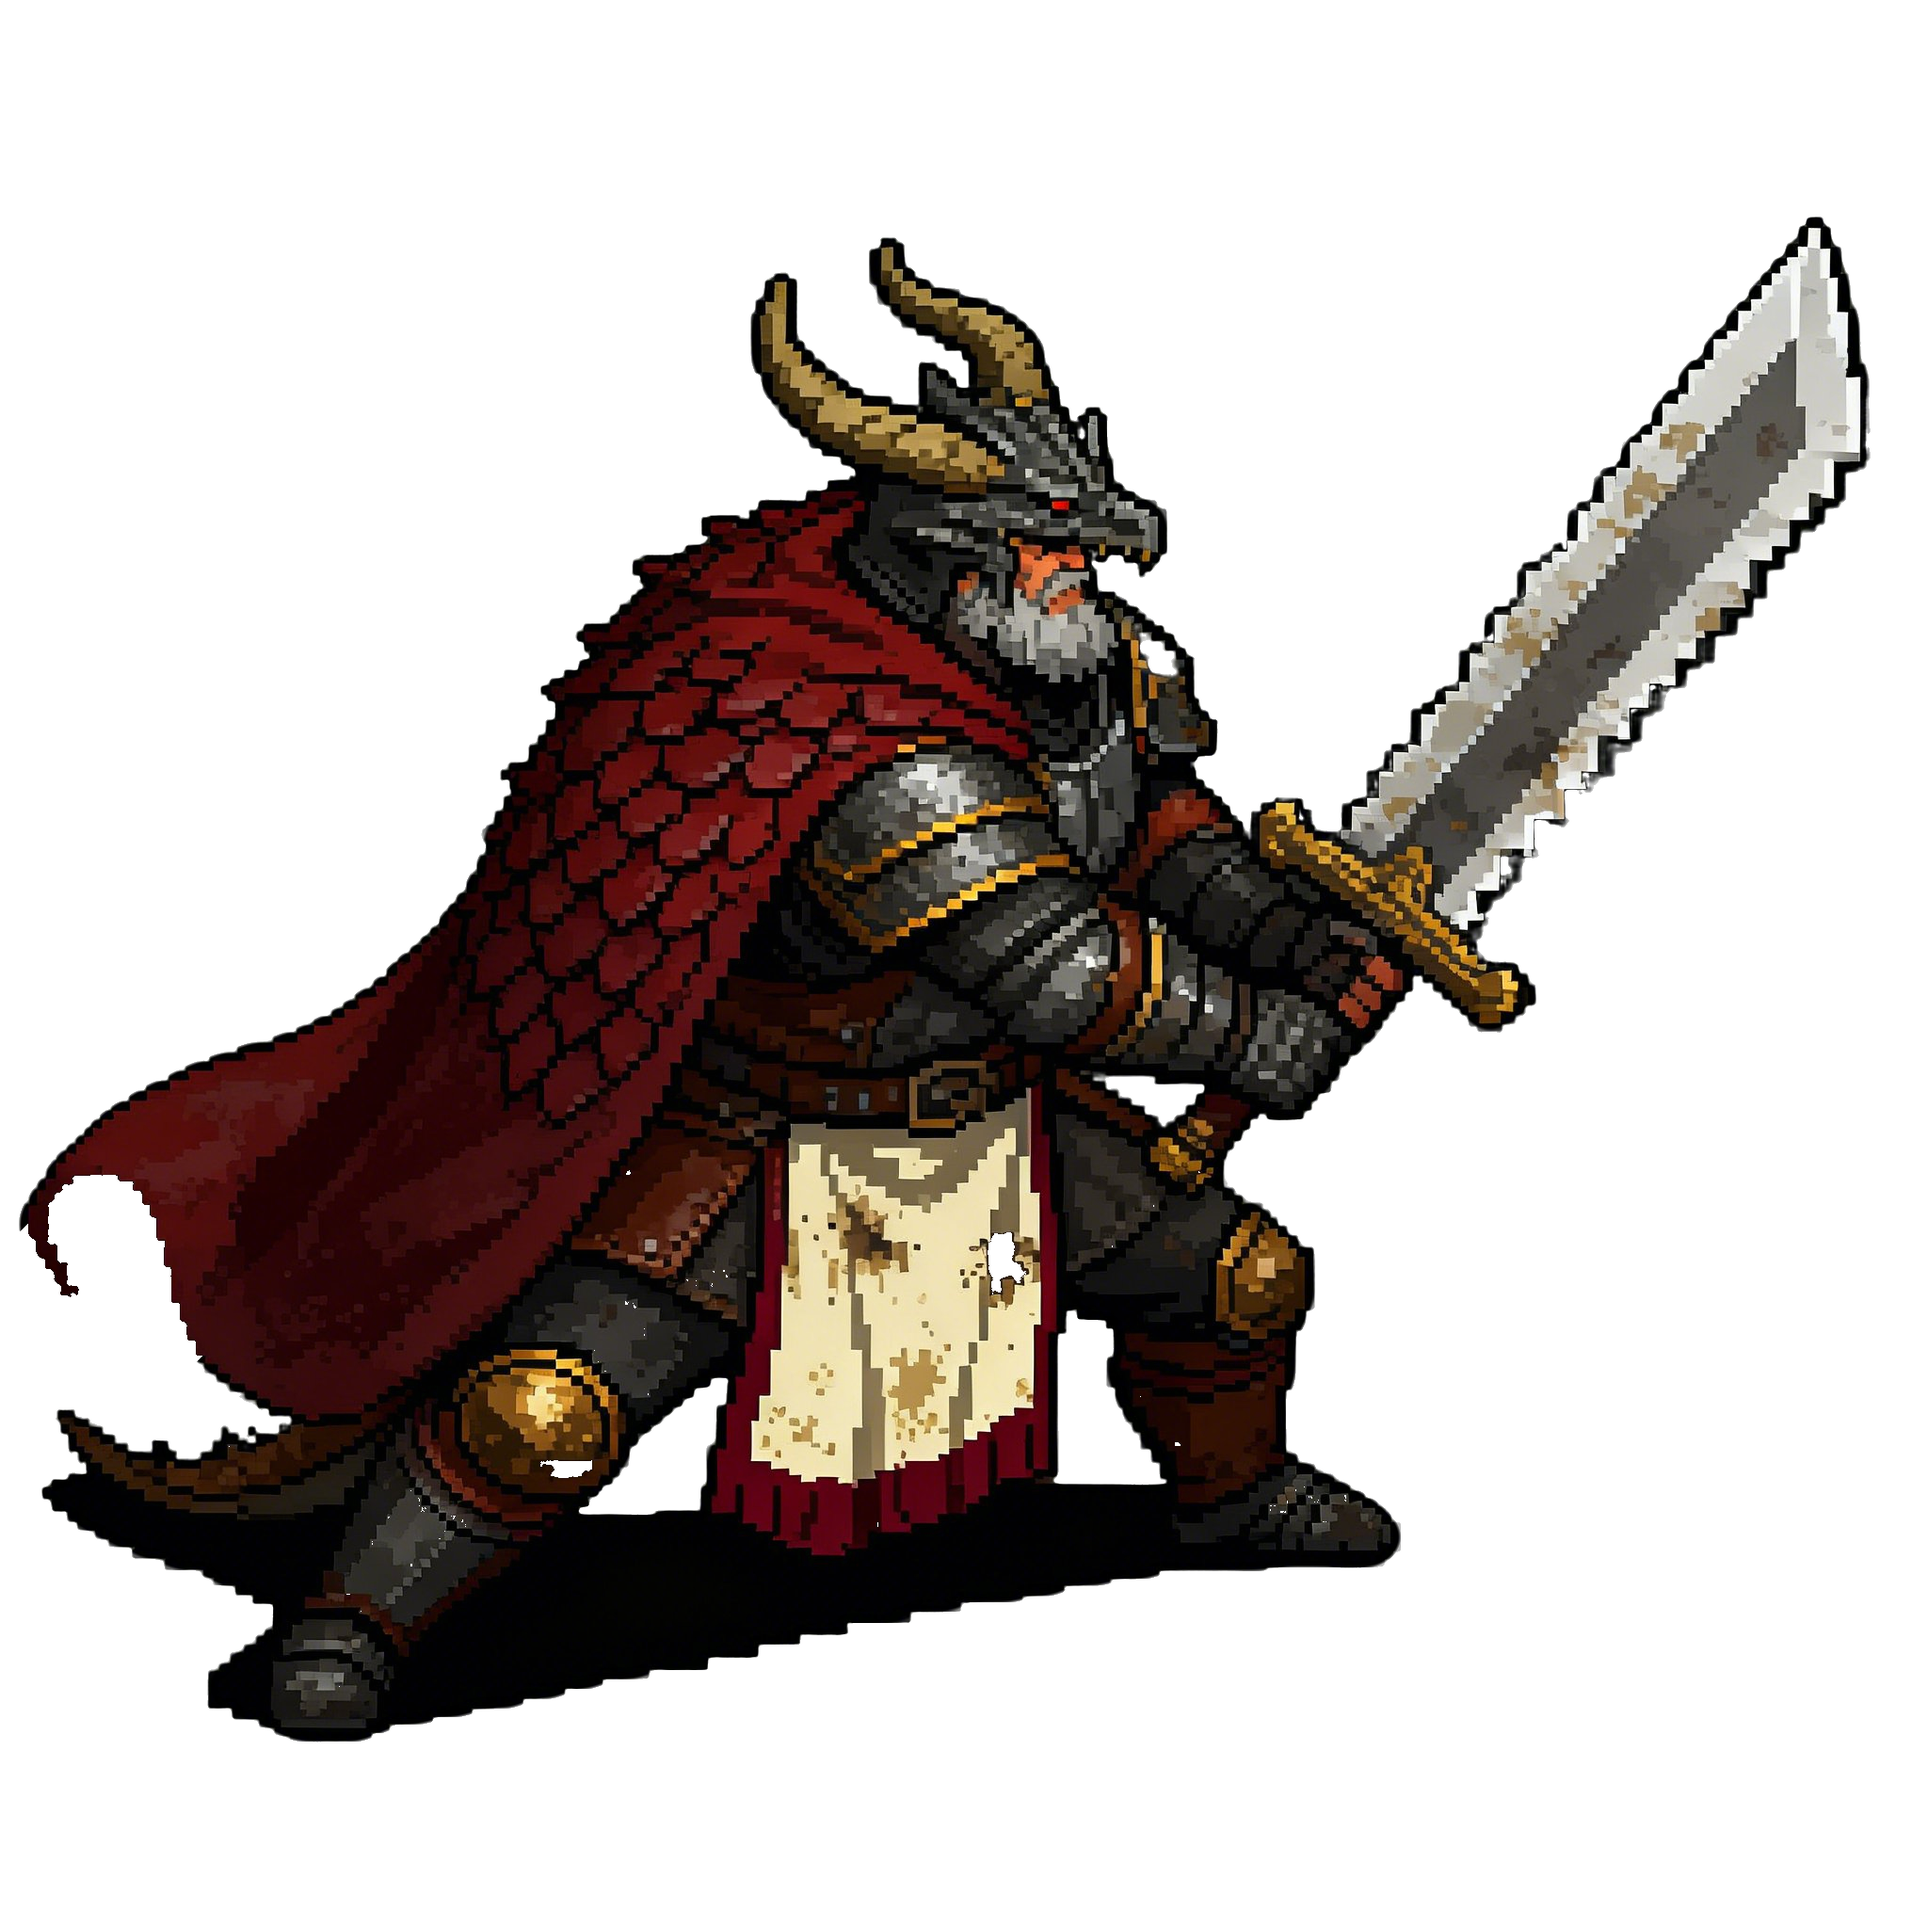
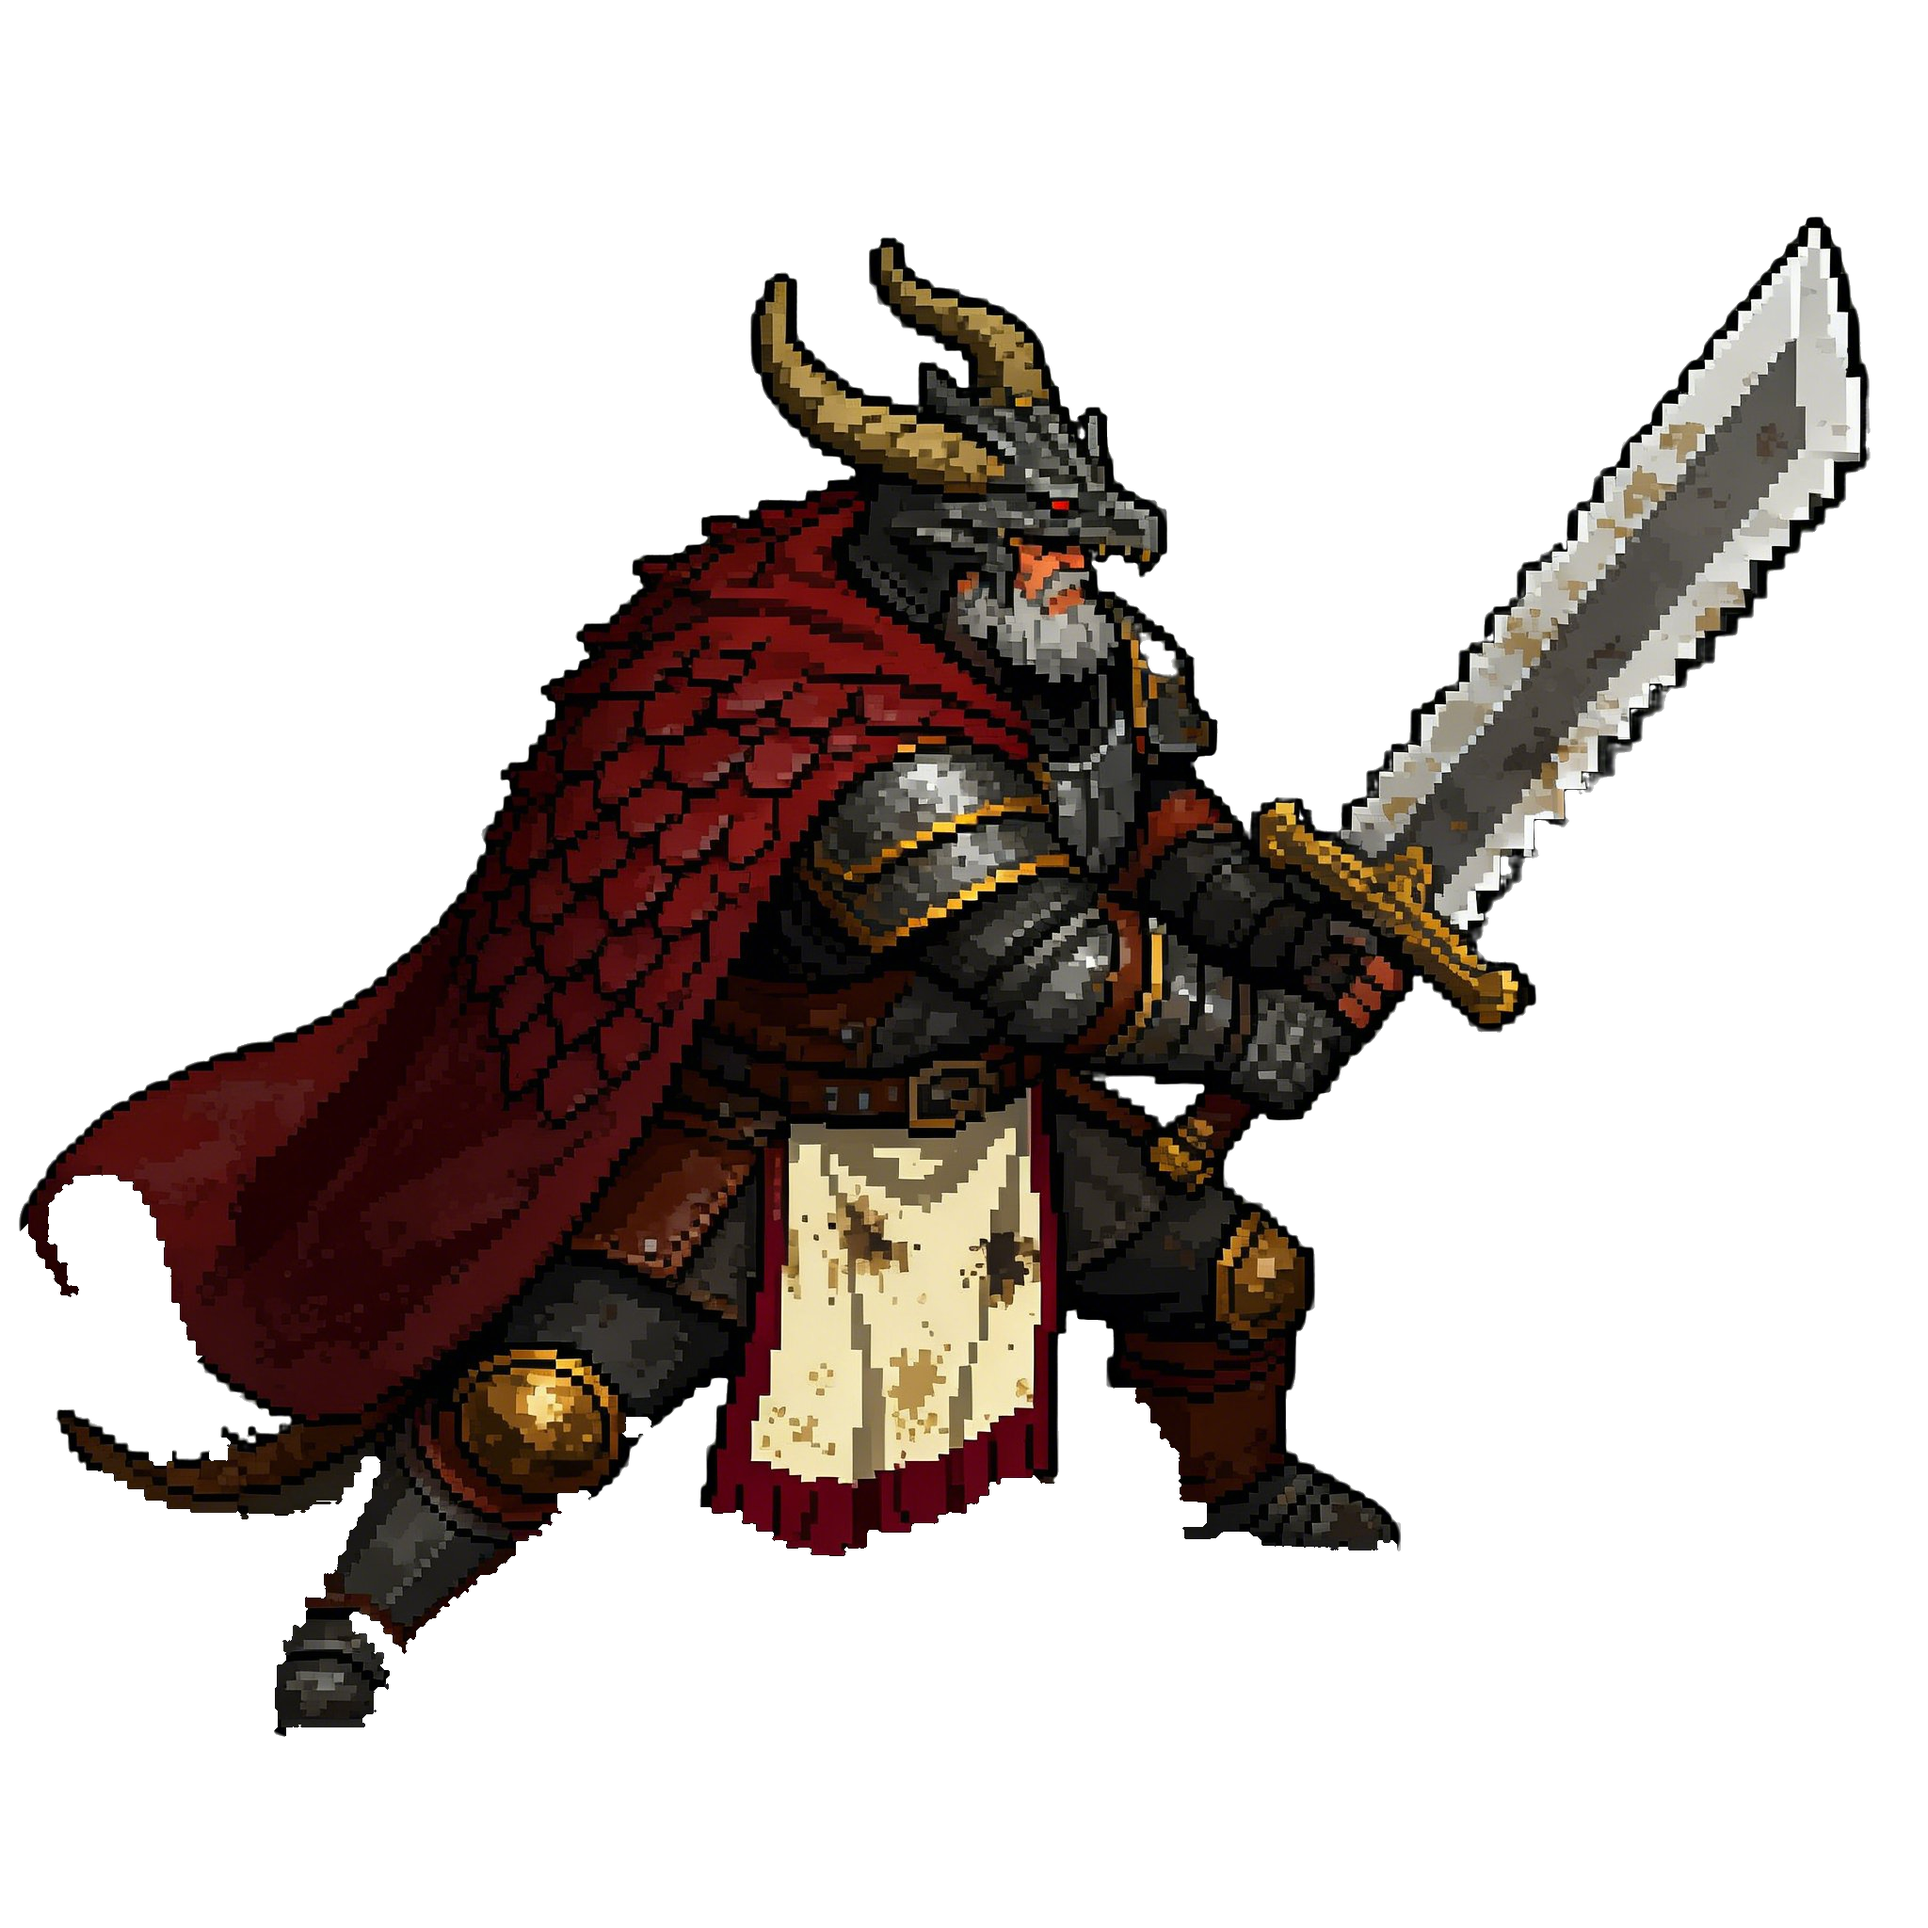
Fix United Kings and Dragon-Slayer cutouts: strip fused ground shadow and specks
strip_shadow.py gains --black-below/--black-v (near-black thick regions
below the feet line), refills enclosed holes and --min-piece for stray
specks; both bosses re-imported.

Claude-Session: https://claude.ai/code/session_014CDesqaTqzsBNCEDB1itnv

Changed region(s): [[0.0, 0.7188, 0.7188, 0.9062], [0.5, 0.625, 0.5312, 0.6875], [0.3125, 0.7188, 0.3438, 0.75]]

diff --git a/tools/assets/strip_shadow.py b/tools/assets/strip_shadow.py
@@ -24,6 +24,10 @@ def main():
     ap.add_argument('--ground', type=float, default=0.6, help='shadow regions must be centred below this fraction of the height')
     ap.add_argument('--grow', type=int, default=10, help='px the thick shadow core grows back into dark pixels (0 = unbounded)')
     ap.add_argument('--keep-dist', type=int, default=40, help='keep opaque pieces within this many px of the main body')
+    ap.add_argument('--black-below', type=float, default=0, help='also strip thick near-black regions below this '
+                    'fraction of the image height (the feet line) — for shadows fused with dark armour')
+    ap.add_argument('--black-v', type=int, default=24, help='max channel value counted as near-black for --black-below')
+    ap.add_argument('--min-piece', type=int, default=40, help='drop detached pieces smaller than this (px)')
     a = ap.parse_args()
 
     im = np.array(Image.open(a.src).convert('RGBA'))
@@ -52,8 +56,18 @@ def main():
         cy = np.where(m.any(1))[0].mean() if m.any() else 0
         if cy < top + a.ground * (bot - top):
             shadow &= ~m
+    if a.black_below > 0:
+        # extra pass for shadows fused with dark armour: the painted ground shadow is near-black (max channel
+        # < black-v) while armour shading is brighter; take thick near-black regions below the feet line only
+        nb = opaque & (mx < a.black_v)
+        bcore = ndi.binary_opening(nb, structure=np.ones((3, 3), bool), iterations=6)
+        bsh = ndi.binary_dilation(bcore, iterations=4) & opaque & (mx < a.black_v + 16)
+        bsh[:int(a.black_below * im.shape[0])] = False
+        shadow |= bsh
     keep = opaque & ~shadow
     keep = ndi.binary_opening(keep, structure=st, iterations=1)
+    # restore pixels fully enclosed by the figure (dark cloth inside a robe is not ground shadow)
+    keep |= ndi.binary_fill_holes(keep) & opaque
     lab, n = ndi.label(keep)
     if n:
         sizes = ndi.sum(keep, lab, range(1, n + 1))
@@ -61,7 +75,7 @@ def main():
         near = ndi.binary_dilation(main, iterations=a.keep_dist)
         ok = np.zeros(n + 1, bool)
         for i in range(1, n + 1):
-            if sizes[i - 1] >= 40 and (near & (lab == i)).any():
+            if sizes[i - 1] >= a.min_piece and (near & (lab == i)).any():
                 ok[i] = True
         keep = ok[lab]
     out = im.copy(); out[..., 3] = np.where(keep, alpha, 0)

diff --git a/tools/assets/crusader_batch.py b/tools/assets/crusader_batch.py
@@ -89,6 +89,9 @@ ASSETS = {
 
 # shadow regrowth per asset (strip_shadow --grow; 0 = unbounded, needed where dark armour touches the shadow)
 GROW = {'b_dragonslayer': 0, 'b_kings': 0}
+# extra strip_shadow args: these two have the near-black ground shadow fused with dark armour
+SHADOW_EXTRA = {k: ['--black-below', '0.72', '--black-v', '14', '--min-piece', '1500'] for k in ('b_dragonslayer', 'b_kings')}
+KEEP_DIST = {'b_dragonslayer': 30, 'b_kings': 30}
 
 
 def find_original(oid):
@@ -124,9 +127,9 @@ def main():
             'model': 'Seedream 4.6',
             'settings': {'ratio': '1:1', 'resolution': '2K', 'images_per_run': 4},
             'reference': 'original Lichdom style reference image (Undead lich army pixel art session)',
-            'postprocess': ('Dreamina canvas Remove BG (2 credits) -> tools/assets/strip_shadow.py --keep-dist %d --grow %d -> '
+            'postprocess': ('Dreamina canvas Remove BG (2 credits) -> tools/assets/strip_shadow.py --keep-dist %d --grow %d%s -> '
                             'tools/assets/import_ai_sprite.py --H %d --res 4 --category %s --override %s%s'
-                            % (kd, GROW.get(key, 10), H, cat, ovr, ' --flying' if fly else '')),
+                            % (KEEP_DIST.get(key, kd), GROW.get(key, 10), ''.join(' ' + x for x in SHADOW_EXTRA.get(key, [])), H, cat, ovr, ' --flying' if fly else '')),
             'credits_spent': {'generation_4_images': 8, 'remove_bg': 2},
             'date': '2026-11-08',
             'prompt': pre + desc + suf,
@@ -135,8 +138,9 @@ def main():
             json.dump(meta, f, indent=1)
         ns = os.path.join(out, 'cutout_noshadow.png')
         grow = GROW.get(key, 10)
+        kd = KEEP_DIST.get(key, kd)
         run([sys.executable, 'tools/assets/strip_shadow.py', os.path.join(out, 'cutout.png'), ns, '--keep-dist', str(kd),
-             '--grow', str(grow)])
+             '--grow', str(grow)] + SHADOW_EXTRA.get(key, []))
         cmd = [sys.executable, 'tools/assets/import_ai_sprite.py', ns, ai_key, '--H', str(H), '--category', cat,
                '--override', ovr, '--name', desc.split(':')[0].replace('The character is ', '').replace('The subject is ', ''),
                '--preview', '/tmp/prev_%s.png' % key]

diff --git a/docs/CHECKLIST.md b/docs/CHECKLIST.md
@@ -20,7 +20,8 @@ Legend: [x] done · [~] partial / simplified · [ ] to do. Update this file at t
 - [ ] Tier 2/3 forms for imported units (currently tiers 2–3 keep procedural art; Wendigo reuses one sheet)
 - [ ] Real animation poses (currently derived from one pose: bob, squash, lean)
 - [x] **Crusaders (v0.10)**: 6 bosses (Divine Champion, United Kings, Grand Inquisitor, Archmage, Dragon-Slayer, Saint) and 7 strong units (paladin, inquisitor, angel, griffon knight, arcane construct, knight, heavy cavalry). Holy foil to the undead: ivory/tarnished gold/crimson, pale candle-gold glows (arcane violet for the mage conclave). `tools/assets/crusader_batch.py` records prompts, heights and post-processing
-- [x] `tools/assets/strip_shadow.py`: removes the painted ground shadow Remove BG keeps (`--grow 0` where dark armour touches the shadow)
+- [x] `tools/assets/strip_shadow.py`: removes the painted ground shadow Remove BG keeps (`--grow 0` where dark armour touches the shadow; `--black-below/--black-v` strips a near-black ground shadow fused with dark armour below the feet line, enclosed holes are refilled, `--min-piece` drops stray specks)
+- [x] Fixed: United Kings and Dragon-Slayer kept a black ground-shadow blob and stray specks in their cutouts
 - [x] `tools/test/showcase.py`: every crusader + boss marching, paused screenshot
 - [ ] Remaining crusaders still procedural: footman, priest, crossbow, battlemage, rams/siege, etc. (they now look blocky next to the AI art). Monster Hunter prompt was flagged twice by Dreamina's guidelines (refunded) — needs a reworded prompt
 - [ ] Remaining undead tiers, towers, tiles, spell FX (the Lich and the fortress are done: v0.7)

diff --git a/CLAUDE.md b/CLAUDE.md
@@ -111,7 +111,8 @@ Imported AI art never overwrites generated assets. It is layered at boot:
   necrotic green; still muted and gritty enough to sit on the same dark battlefield." (Mage-conclave units: arcane violet.)
   Words like "slayer"/"hunter" with weapons can trip the content filter — describe the role, not the violence.
 - **Shadows**: Remove BG keeps the painted ground shadow; run `tools/assets/strip_shadow.py <cutout> <out>` before importing
-  (`--grow 0` when dark armour touches the shadow, `--keep-dist` larger for floating props).
+  (`--grow 0` when dark armour touches the shadow, plus `--black-below 0.72 --black-v 14` if a near-black shadow stays
+  fused to it; `--keep-dist` larger for floating props, `--min-piece` to drop specks). Check every sheet on a magenta background.
 - **Fortress**: `python3 tools/assets/import_fortress.py <original> <cutout>` places the art unscaled and unwarped at
   x = 0 (keep the AI art's proportions — warping it looked stretched), writes `sprites/buildings/ai/fortress.png` and
   the generated `src/data/fortress_fit.ts` (per-row wall face = solid cells; torch/window/portcullis lights detected by
